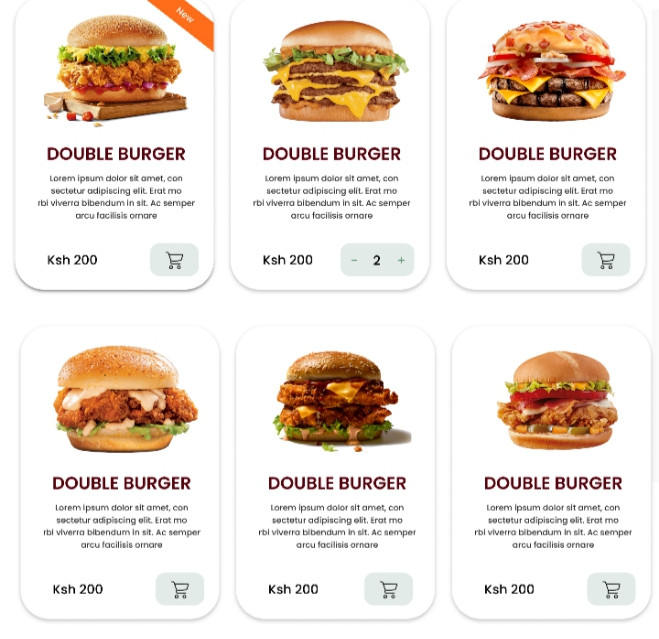
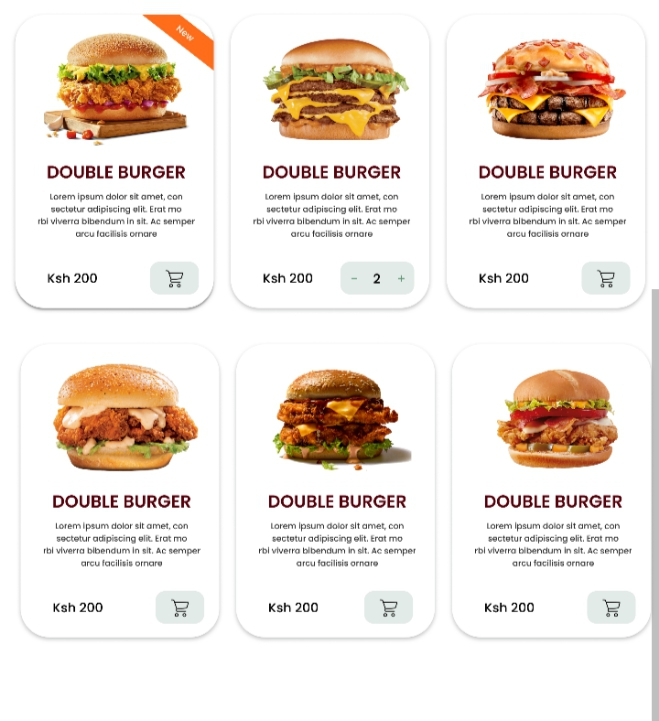
more content addedd

diff --git a/style.css b/style.css
@@ -10,7 +10,7 @@ header {
     }
 nav {
     background-color: white;
-    height: 400px; 
+    height: 410px; 
     margin-left: auto;
     margin-right: auto;
     text-align: center;
@@ -24,19 +24,17 @@ nav {
     
 }
 main { 
-    background-color: white;
-    height: 950px;
+    background-color: rgb(27, 24, 24);
+    height: 2500px;
     margin-left: auto;
     margin-right: auto;
+    width: 924px;
 }
 footer { 
     background-color: rgb(23, 40, 116);
     margin-left: auto;
     margin-right: auto;
     height: 250px;
-}
-table {
-
 }
 h1 {
     font-size: 30px;
@@ -51,13 +49,13 @@ nav a {
     padding-left: 12px;
     padding-right: 12px;
 }
-image { 
-    min-height: 35opx;
-    min-width: 924px;
+img { 
+    text-align: center;
+    margin: right 50px;;
 }
-.main2 {background-color: violet;
-    width: 924px;
-    height: 300px;
+p {
+    text-align: center;
+} 
 
-}
+
    

diff --git a/project33.html b/project33.html
@@ -24,13 +24,15 @@
     <main>
        
         <h1>our menu</h1>
-        <table>
-                    
-        </table>
-        <div class="main 2">
+        <p> 
+            <img src="images/6 burger combo.png" alt="">
 
-        </div>
 
+        </p>
+ 
+       
+        
+    
     </main>
     
     <footer> 
